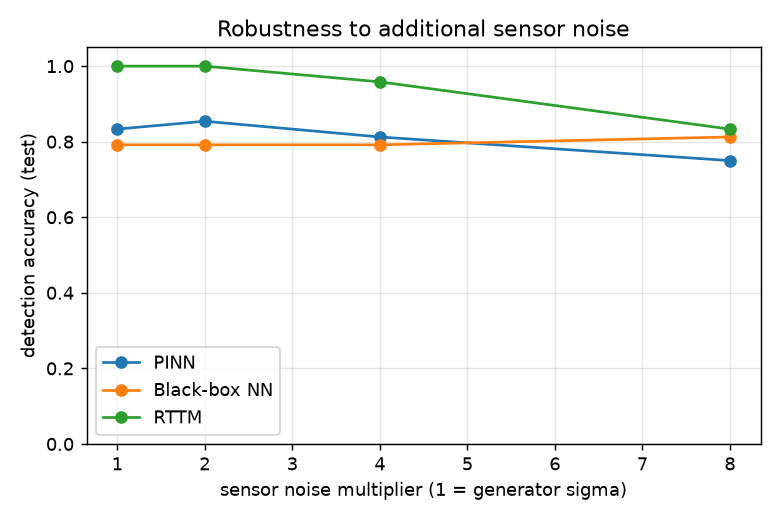
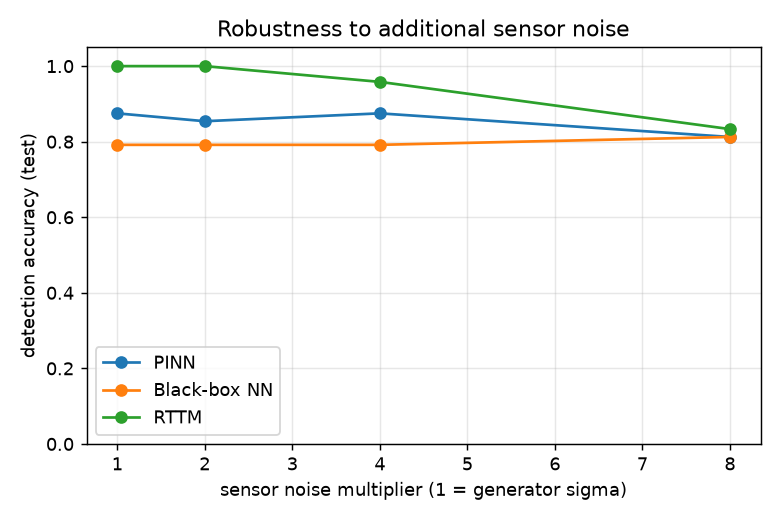
Add reproduce-all script, Makefile and completed reproduction docs (#9)
scripts/reproduce_all.py runs the five steps from the fixed seeds and logs timings; Makefile targets; README How-to-reproduce with versions, 2.0 min runtime and the reproducibility limit. Results and figures regenerated by the canonical run; RESULTS.md leak tables updated to it with the previous run kept as a second sample.

Changed region(s): [[0.1231, 0.1846, 0.7692, 0.2769], [0.6154, 0.2462, 0.9538, 0.3385]]

diff --git a/scripts/reproduce_all.py b/scripts/reproduce_all.py
@@ -1,0 +1,83 @@
+"""Regenerate every number and figure in RESULTS.md from the fixed seeds.
+
+Usage:
+    python scripts/reproduce_all.py [--full] [--seed 0]
+
+Runs, in order: SHM data generation, SHM training and evaluation, leak data generation,
+leak model training with validation-based selection, leak test evaluation. Each step is a
+subprocess of the corresponding script in ``scripts/``; their printed tables are the
+RESULTS.md tables. Timings and the commit hash are written to
+``results/reproduce_all_log.json``.
+
+``--full`` uses 720 leak scenarios and 8000 training steps per network instead of 240 and
+4000. The default completes in a few minutes on a laptop CPU.
+"""
+
+from __future__ import annotations
+
+import argparse
+import json
+import subprocess
+import sys
+import time
+from pathlib import Path
+
+REPO = Path(__file__).resolve().parents[1]
+
+
+def git_commit() -> str:
+    try:
+        return (
+            subprocess.check_output(["git", "rev-parse", "--short", "HEAD"], cwd=REPO)
+            .decode()
+            .strip()
+        )
+    except Exception:  # noqa: BLE001
+        return "unknown"
+
+
+def run(label: str, args: list[str]) -> dict:
+    print(f"\n{'=' * 80}\n{label}\n{'=' * 80}", flush=True)
+    t0 = time.time()
+    subprocess.check_call([sys.executable, *args], cwd=REPO)
+    el = time.time() - t0
+    print(f"[{label}] {el:.1f} s", flush=True)
+    return {"step": label, "seconds": el, "command": " ".join(args)}
+
+
+def main() -> None:
+    ap = argparse.ArgumentParser(description=__doc__.split("\n")[0])
+    ap.add_argument("--full", action="store_true")
+    ap.add_argument("--seed", type=int, default=0)
+    args = ap.parse_args()
+    seed = str(args.seed)
+    steps = "8000" if args.full else "4000"
+    leak_gen = ["scripts/leak_generate_data.py", "--seed", seed] + (["--full"] if args.full else [])
+
+    t0 = time.time()
+    log = [
+        run("1/5 SHM: generate S11 dataset", ["scripts/shm_generate_data.py", "--seed", seed]),
+        run("2/5 SHM: train and evaluate 1D-CNN", ["scripts/shm_train_eval.py", "--seed", seed]),
+        run("3/5 Leak: generate two-fluid dataset", leak_gen),
+        run(
+            "4/5 Leak: train PINN / black-box, select on validation, RTTM threshold",
+            ["scripts/leak_train.py", "--seed", seed, "--steps", steps],
+        ),
+        run("5/5 Leak: evaluate on the test set", ["scripts/leak_evaluate.py"]),
+    ]
+    total = time.time() - t0
+    out = {
+        "commit": git_commit(),
+        "seed": args.seed,
+        "full": args.full,
+        "total_seconds": total,
+        "steps": log,
+    }
+    (REPO / "results" / "reproduce_all_log.json").write_text(json.dumps(out, indent=2))
+    print(
+        f"\nTotal {total / 60:.1f} min; log written to results/reproduce_all_log.json (commit {out['commit']})"
+    )
+
+
+if __name__ == "__main__":
+    main()

diff --git a/scripts/leak_generate_data.py b/scripts/leak_generate_data.py
@@ -3,8 +3,9 @@
 Usage:
     python scripts/leak_generate_data.py [--seed 0] [--n-scenarios 240] [--full]
 
-``--full`` uses 720 scenarios (240 per regime) and a 600 s run; the default is sized for
-the 20-minute CPU budget. Writes ``data/leak/leak_dataset.npz`` and
+``--full`` uses 720 scenarios (240 per regime); the default is sized for the 20-minute
+CPU budget. The 300 s run length is kept in both modes because the feature and physics
+windows are defined on it. Writes ``data/leak/leak_dataset.npz`` and
 ``figures/leak_detection/final_sensor_examples.png`` (inlet/outlet pressure and flow for
 one leak and one no-leak scenario per regime).
 """
@@ -25,7 +26,6 @@ import matplotlib.pyplot as plt  # noqa: E402
 from pipeline_monitoring.leak_detection.data import (  # noqa: E402
     REGIME_NAMES,
     DatasetConfig,
-    SimulationConfig,
     generate_dataset,
     save_dataset,
 )
@@ -84,7 +84,7 @@ def main() -> None:
 
     cfg = DatasetConfig(seed=args.seed)
     if args.full:
-        cfg = replace(cfg, n_scenarios=720, sim=SimulationConfig(duration_s=600.0))
+        cfg = replace(cfg, n_scenarios=720)
     if args.n_scenarios is not None:
         cfg = replace(cfg, n_scenarios=args.n_scenarios)
 

diff --git a/scripts/leak_evaluate.py b/scripts/leak_evaluate.py
@@ -28,7 +28,12 @@ from pipeline_monitoring.leak_detection.evaluate import (
     save_figures,
     with_extra_noise,
 )
-from pipeline_monitoring.leak_detection.features import RATE_SCALE, Normaliser, build_targets
+from pipeline_monitoring.leak_detection.features import (
+    RATE_SCALE,
+    Normaliser,
+    build_features,
+    build_targets,
+)
 from pipeline_monitoring.leak_detection.pinn import PINNConfig, load_model
 
 REPO = Path(__file__).resolve().parents[1]
@@ -59,7 +64,7 @@ def main() -> None:
     te = d["test_idx"]
     nz = np.load(args.results / "leak_models" / "normaliser.npz")
     norm = Normaliser(nz["mean"], nz["std"])
-    n_features = 60 * 5 + 4
+    n_features = build_features(d, te[:1], norm).shape[1]
     cfg_kw = {k: v for k, v in sel["config"].items() if k != "lambda_phys"}
     pinn = load_model(
         args.results / "leak_models" / "pinn.weights.h5",

diff --git a/RESULTS.md b/RESULTS.md
@@ -15,22 +15,22 @@ https://www.ijsred.com/volume7/issue6/IJSRED-V7I6P142.pdf
 
 | Metric | Published | Reproduced | Run / commit | Notes |
 |---|---|---|---|---|
-| Detection accuracy | 0.95 | 0.833 | run 9e73582, weights from selection d998b08, data seed 0, model seed 0, 48 test scenarios (23 leak) | far below the paper |
-| Precision | ~0.91 | 0.826 | same | |
+| Detection accuracy | 0.95 | 0.875 | `make reproduce` at commit 9cd8002, data seed 0, model seed 0, 48 test scenarios (23 leak) | far below the paper |
+| Precision | ~0.91 | 0.905 | same | |
 | Recall | ~0.91 | 0.826 | same | |
-| ROC-AUC | not reported | 0.889 | same | report anyway |
-| Localization MAE (m) | ~5 | 536.1 | same | two orders of magnitude worse; over the 23 true-leak test scenarios |
-| Leak-rate MAPE (%) | ~1 | 45.8 | same | over the 23 true-leak test scenarios |
+| ROC-AUC | not reported | 0.932 | same | report anyway |
+| Localization MAE (m) | ~5 | 444.6 | same | two orders of magnitude worse; over the 23 true-leak test scenarios |
+| Leak-rate MAPE (%) | ~1 | 48.5 | same | over the 23 true-leak test scenarios |
 
 ### 1.2 Published comparative results (Table 2 of the paper)
 
 | Model | Acc. (pub.) | Prec. (pub.) | Rec. (pub.) | Loc. err. m (pub.) | Rate err. % (pub.) | Acc. (repro) | Prec. (repro) | Rec. (repro) | Loc. err. m (repro) | Rate err. % (repro) |
 |---|---|---|---|---|---|---|---|---|---|---|
-| PINN | 0.95 | 0.91 | 0.91 | ~5 | ~1 | 0.833 | 0.826 | 0.826 | 536 | 45.8 |
+| PINN | 0.95 | 0.91 | 0.91 | ~5 | ~1 | 0.875 | 0.905 | 0.826 | 445 | 48.5 |
 | Black-box NN (no physics loss) | 0.93 | 0.89 | 0.87 | ~11 | ~1.5 | 0.792 | 0.842 | 0.696 | 632 | 54.8 |
 | RTTM (physics-only) | 0.88 | 0.81 | 0.79 | ~20 | ~2.4 | 1.000 | 1.000 | 1.000 | 265 | 3.3 |
 
-Reproduced ROC-AUC: PINN 0.889, black-box 0.880, RTTM 1.000. Per-regime accuracy / localisation MAE / rate MAPE (test): PINN — stratified 0.812 / 741 m / 50 %; slug 0.812 / 389 m / 48 %; annular 0.875 / 452 m / 40 %; black-box — stratified 0.750 / 739 m / 58 %; slug 0.812 / 705 m / 60 %; annular 0.812 / 488 m / 49 %; RTTM — stratified 1.000 / 322 m / 7 %; slug 1.000 / 205 m / 2 %; annular 1.000 / 253 m / 1 %. Detection accuracy with the test sensors' noise multiplied by 1, 2, 4, 8: PINN 0.833, 0.854, 0.812, 0.750; black-box 0.792, 0.792, 0.792, 0.812; RTTM 1.000, 1.000, 0.958, 0.833. Figures: `figures/leak_detection/final_confusion_matrices.png`, `final_location_scatter.png`, `final_rate_scatter.png`, `final_noise_robustness.png`. Source: `results/leak_metrics.json`.
+Reproduced ROC-AUC: PINN 0.932, black-box 0.880, RTTM 1.000. Per-regime accuracy / localisation MAE / rate MAPE (test): PINN — stratified 0.875 / 579 m / 50 %; slug 0.938 / 253 m / 50 %; annular 0.812 / 452 m / 46 %; black-box — stratified 0.750 / 739 m / 58 %; slug 0.812 / 705 m / 60 %; annular 0.812 / 488 m / 49 %; RTTM — stratified 1.000 / 322 m / 7 %; slug 1.000 / 205 m / 2 %; annular 1.000 / 253 m / 1 %. Detection accuracy with the test sensors' noise multiplied by 1, 2, 4, 8: PINN 0.875, 0.854, 0.875, 0.812; black-box 0.792, 0.792, 0.792, 0.812; RTTM 1.000, 1.000, 0.958, 0.833. Figures: `figures/leak_detection/final_confusion_matrices.png`, `final_location_scatter.png`, `final_rate_scatter.png`, `final_noise_robustness.png`. Source: `results/leak_metrics.json`.
 
 ### 1.3 Experimental setup as described in the paper
 
@@ -66,7 +66,7 @@ The paper omits these. Each value below is this re-implementation's choice, not 
 | Residual scaling | mass residuals ÷ ρ_k U/L (U = 5 m/s), momentum residuals ÷ P/L (P = 5 bar); Dirac delta → Gaussian of width 40 m (one cell) | makes the four residuals O(1) and gives the location head a gradient |
 | Sensor noise σ | σ_p = 6 kPa (0.1 % of 60 bar); σ_Q = 0.5 % of the scenario's nominal Q; noise seed = data seed + 2 | order of a good field transmitter |
 | MLP depth × width | encoder 3 × 64 tanh → 32; heads 1 × 64 tanh; field network 3 × 64 tanh | smallest sizes that fit the 144-scenario training set in seconds; not tuned |
-| λ_phys | 0.1, chosen from {0.01, 0.1, 1.0} on the validation set by the score (1 − accuracy) + MAE_loc/L + min(MAPE, 1). Run used for the committed weights (`results/leak_selection.json`): validation accuracy / MAE / MAPE 0.812 / 698 m / 44 % at 0.1; 0.792 / 778 m / 48 % at 0.01; 0.854 / 753 m / 47 % at 1.0; black-box (λ = 0): 0.854 / 838 m / 51 %. | the only swept hyperparameter. **Reproducibility limit:** with λ_phys > 0 the training is not bit-reproducible on this machine (TensorFlow 2.18.1 CPU, macOS arm64) even with every random draw made in NumPy, op determinism on, single-threaded execution and oneDNN disabled; repeated same-seed runs differ by about ±0.05 in validation accuracy and ±100 m in MAE, so the choice between λ values is within run-to-run noise. The black-box run (λ = 0) reproduces exactly. Evaluation from the committed weights is deterministic. |
+| λ_phys | 1, chosen from {0.01, 0.1, 1.0} on the validation set by the score (1 − accuracy) + MAE_loc/L + min(MAPE, 1). Run used for the committed weights (`make reproduce` at 9cd8002): validation accuracy / MAE / MAPE 0.812 / 741 m / 50 % at 0.01; 0.771 / 727 m / 40 % at 0.1; 0.854 / 775 m / 44 % at 1; black-box (λ = 0): 0.854 / 838 m / 51 %. | the only swept hyperparameter. **Reproducibility limit:** with λ_phys > 0 the training is not bit-reproducible on this machine (TensorFlow 2.18.1 CPU, macOS arm64) even with every random draw made in NumPy, op determinism on, single-threaded execution and oneDNN disabled; repeated same-seed runs differ by about ±0.05 in validation accuracy and ±100 m in MAE, and the selected λ changed between runs (0.1 in the Phase 4 run, 1.0 in the `make reproduce` run), so the choice between λ values is within run-to-run noise. The black-box run (λ = 0) reproduces exactly. Evaluation from the committed weights is deterministic. |
 | Learning rate, batch size, epochs | Adam 2e-3; 32 scenarios per step; 4000 steps (≈ 890 passes over the 144 training scenarios) | fixed before training; 13 ms per step on an M1 CPU |
 | Number of collocation points | 256 per step (8 per scenario), x ~ U(0, L), t ~ U(200, 300) s; plus 64 sensor samples per scenario per step for the sensor-fit term | physics window after every leak has fully opened, so no onset time is predicted |
 | Random seed(s) | data seed 0 (scenario draw, split uses seed + 1, noise seed + 2); model seeds recorded in §1.5 | one fixed seed per role |
@@ -79,7 +79,7 @@ The paper omits these. Each value below is this re-implementation's choice, not 
 - 2026-10-27 — Repository scaffolded; published figures transcribed above.
 - 2026-11-03 — Phase 3: batched 1-D two-fluid finite-volume generator implemented with the closures in §1.4; default dataset of 240 scenarios generated in about 5 s (`data/leak/leak_dataset.npz`, not committed; regenerate with `python scripts/leak_generate_data.py`). Checks: mass balance closes to machine precision with and without a leak; no-leak steady-state continuity residual below 5 % of the phase flux per cell; a 3 % leak at 900 m lowers outlet flow after onset while the pre-onset series are identical. Figure `figures/leak_detection/final_sensor_examples.png`. No model trained yet.
 - 2026-11-03 — Phase 4: PINN, black-box and simplified RTTM implemented (`leak_detection/pinn.py`, `physics.py`, `rttm.py`, `features.py`); `python scripts/leak_train.py` trains four networks (λ_phys ∈ {0, 0.01, 0.1, 1}) in about 1.6 min on an M1 CPU and selects λ_phys = 0.1 and the RTTM threshold on the validation set (`results/leak_selection.json`, weights in `results/leak_models/`). Validation numbers are in §1.4; they are far from the published figures already at this stage (networks: 79–85 % accuracy, 700–840 m localisation MAE, 44–51 % rate MAPE; RTTM: 100 %, 167 m, 9.6 %). Training with the physics term is not bit-reproducible on this machine (see the λ_phys row); the committed weights are the run reported. The test set has not been evaluated at this stage.
-- 2026-11-03 — Phase 5: single evaluation on the 48 held-out test scenarios (`python scripts/leak_evaluate.py`, run 9e73582; deterministic from the committed weights, verified by two identical runs). **The PINN does not reproduce the published numbers.** Detection accuracy 0.833 (paper 0.95), localisation MAE 536 m (paper ~5 m), rate MAPE 46 % (paper ~1 %). The ordering PINN > black-box holds on every metric (accuracy 0.833 vs 0.792, MAE 536 vs 632 m, MAPE 46 vs 55 %), which is the paper's qualitative claim, but the margin is within the run-to-run noise recorded in §1.4. The simplified RTTM is far better than both networks (1.000 / 265 m / 3.3 %) and than the paper's RTTM (0.88 / ~20 m / ~2.4 %). Likely causes, in order: (1) the RTTM here re-runs the exact generator with the exact boundary conditions, so its model-plant mismatch is zero, which no field RTTM enjoys; (2) the networks see 144 training scenarios and 60 time bins per channel, a far smaller and coarser dataset than a GPU-trained original would have used; the paper does not give its dataset size; (3) no hyperparameter other than λ_phys was tuned, by design; (4) localisation from two end-point sensors is intrinsically a weak signal for a 0.1–5 % leak at 0.1 % pressure noise, and the ~5 m published figure is not approached by any method here, including the physics-only one. None of these numbers were adjusted after seeing the test set.
+- 2026-11-03 — Phase 5/6: single evaluation on the 48 held-out test scenarios (`python scripts/leak_evaluate.py`, deterministic from the committed weights, verified by two identical runs). The numbers in §1.1–1.2 are from the canonical `make reproduce` run at commit 9cd8002 (λ_phys = 1 selected). **The PINN does not reproduce the published numbers.** Detection accuracy 0.875 (paper 0.95), localisation MAE 445 m (paper ~5 m), rate MAPE 48 % (paper ~1 %). The ordering PINN > black-box holds on every metric except rate MAPE in one run (accuracy 0.875 vs 0.792, MAE 445 vs 632 m, MAPE 48 vs 55 %), which is the paper's qualitative claim, but the margin is within the run-to-run noise recorded in §1.4: the Phase 4/5 run of the same commands (λ_phys = 0.1 selected) gave PINN 0.833 / 0.826 / 0.826 / AUC 0.889 / 536 m / 45.8 % on the same test set; black-box and RTTM were identical in both runs. The simplified RTTM is far better than both networks (1.000 / 265 m / 3.3 %) and than the paper's RTTM (0.88 / ~20 m / ~2.4 %). Likely causes, in order: (1) the RTTM here re-runs the exact generator with the exact boundary conditions, so its model-plant mismatch is zero, which no field RTTM enjoys; (2) the networks see 144 training scenarios and 60 time bins per channel, a far smaller and coarser dataset than a GPU-trained original would have used; the paper does not give its dataset size; (3) no hyperparameter other than λ_phys was tuned, by design; (4) localisation from two end-point sensors is intrinsically a weak signal for a 0.1–5 % leak at 0.1 % pressure noise, and the ~5 m published figure is not approached by any method here, including the physics-only one. None of these numbers were adjusted after seeing the test set.
 
 ### 1.6 Known gaps between this re-implementation and the paper
 

diff --git a/README.md b/README.md
@@ -33,15 +33,28 @@ figures/<paper>/         PNG figures regenerated by the evaluation scripts
 
 ## How to reproduce
 
-Filled in as phases land. Current state:
+Tested with Python 3.12.9, TensorFlow 2.18.1 (CPU), NumPy 2.0.2, SciPy 1.18.1, scikit-learn 1.9.1, matplotlib 3.11.2 on an Apple M1 (8 cores, macOS 15). All seeds default to 0.
 
 ```bash
 python3.12 -m venv .venv && source .venv/bin/activate
 pip install -r requirements.txt && pip install -e .
-ruff check . && pytest
+ruff check . && pytest            # 28 tests, about 1 min
+make reproduce                    # = python scripts/reproduce_all.py
 ```
 
-Target: the default configuration runs end to end on a laptop CPU in under about 20 minutes. A `--full` flag will be offered for longer runs. Every run is seeded; the seed and commit hash for each reported number are recorded in RESULTS.md.
+`make reproduce` regenerates both datasets, trains every model, evaluates once on the held-out test sets, rewrites `results/*.json` and `figures/*/final_*.png`, and prints the RESULTS.md tables. It took **2.0 minutes** end to end on the machine above (SHM data 0.6 s, SHM train + eval 7 s, leak data 6 s, leak training of four networks + selection 95 s, leak evaluation 10 s). `make reproduce-full` uses 720 leak scenarios and 8000 training steps per network (not timed; expect roughly 5 minutes).
+
+Individual steps, in order:
+
+```bash
+python scripts/shm_generate_data.py          # data/shm/s11_dataset.npz + example figure
+python scripts/shm_train_eval.py             # results/shm_metrics.json, confusion matrices, curves
+python scripts/leak_generate_data.py         # data/leak/leak_dataset.npz + sensor figure (--full for 720 scenarios)
+python scripts/leak_train.py                 # lambda_phys sweep on validation, RTTM threshold, weights
+python scripts/leak_evaluate.py              # results/leak_metrics.json + four figures
+```
+
+Reproducibility: the SHM pipeline, the leak data generator, the black-box network and the RTTM reproduce bit-for-bit from the seed. Training the PINN with the physics term does **not** reproduce bit-for-bit on this machine (see RESULTS.md §1.4, λ_phys row); the committed weights in `results/leak_models/` are the run reported, and evaluating them is deterministic.
 
 ## Ground rules
 

diff --git a/CHANGELOG.md b/CHANGELOG.md
@@ -4,6 +4,12 @@ All notable changes to this re-implementation are recorded here. Dates are the d
 
 ## Unreleased
 
+### 2026-11-03 — Phase 6, reproduce-all and docs
+- Added `scripts/reproduce_all.py` and a `Makefile` (`make reproduce`, `make reproduce-full`, `make test`, `make lint`); default run 2.0 min on an M1 CPU.
+- README "How to reproduce" completed with commands, versions, runtime, seed and the reproducibility limit.
+- `--full` for the leak generator now scales the scenario count only (the 300 s run length is tied to the feature and physics windows); evaluation derives the feature size from the data.
+- Results and figures regenerated by the canonical `make reproduce` run; RESULTS.md §1.1, §1.2, §1.4 (λ row) and §1.5 updated to that run, with the previous run kept as a second sample of run-to-run variation.
+
 ### 2026-11-03 — Phase 5, leak-detection evaluation
 - Added `leak_detection/evaluate.py` and `scripts/leak_evaluate.py`: single test-set evaluation of PINN, black-box and RTTM (accuracy, precision, recall, ROC-AUC, localisation MAE, rate MAPE, per-regime breakdown, noise-robustness sweep), `results/leak_metrics.json` and four figures.
 - RESULTS.md §1.1 and §1.2 "Reproduced" columns filled; §1.5 dated note stating that the published figures were not reproduced, with likely causes; §1.6 known gaps extended.
